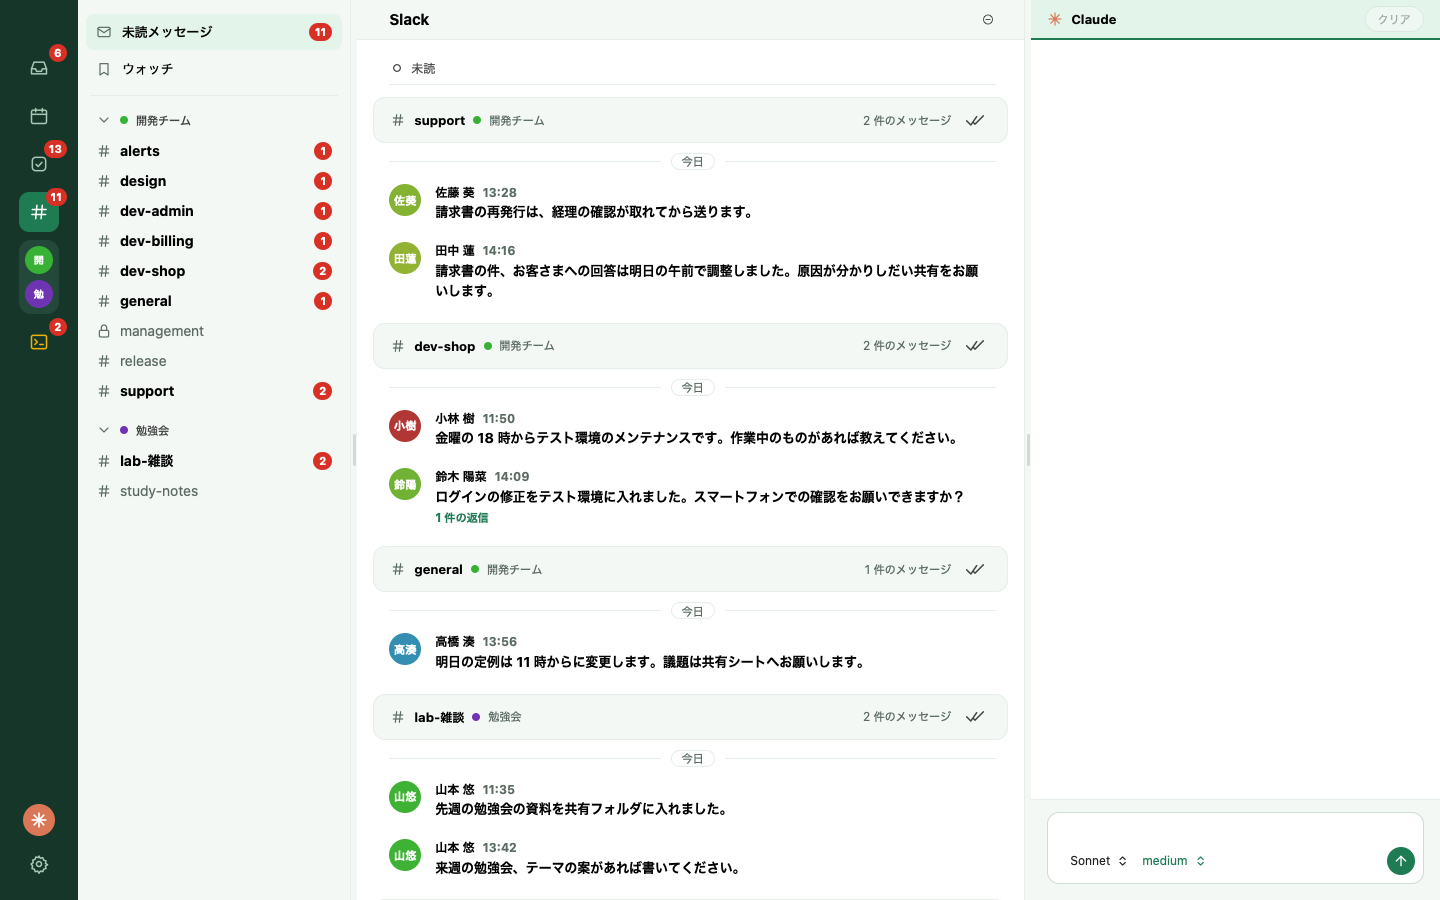
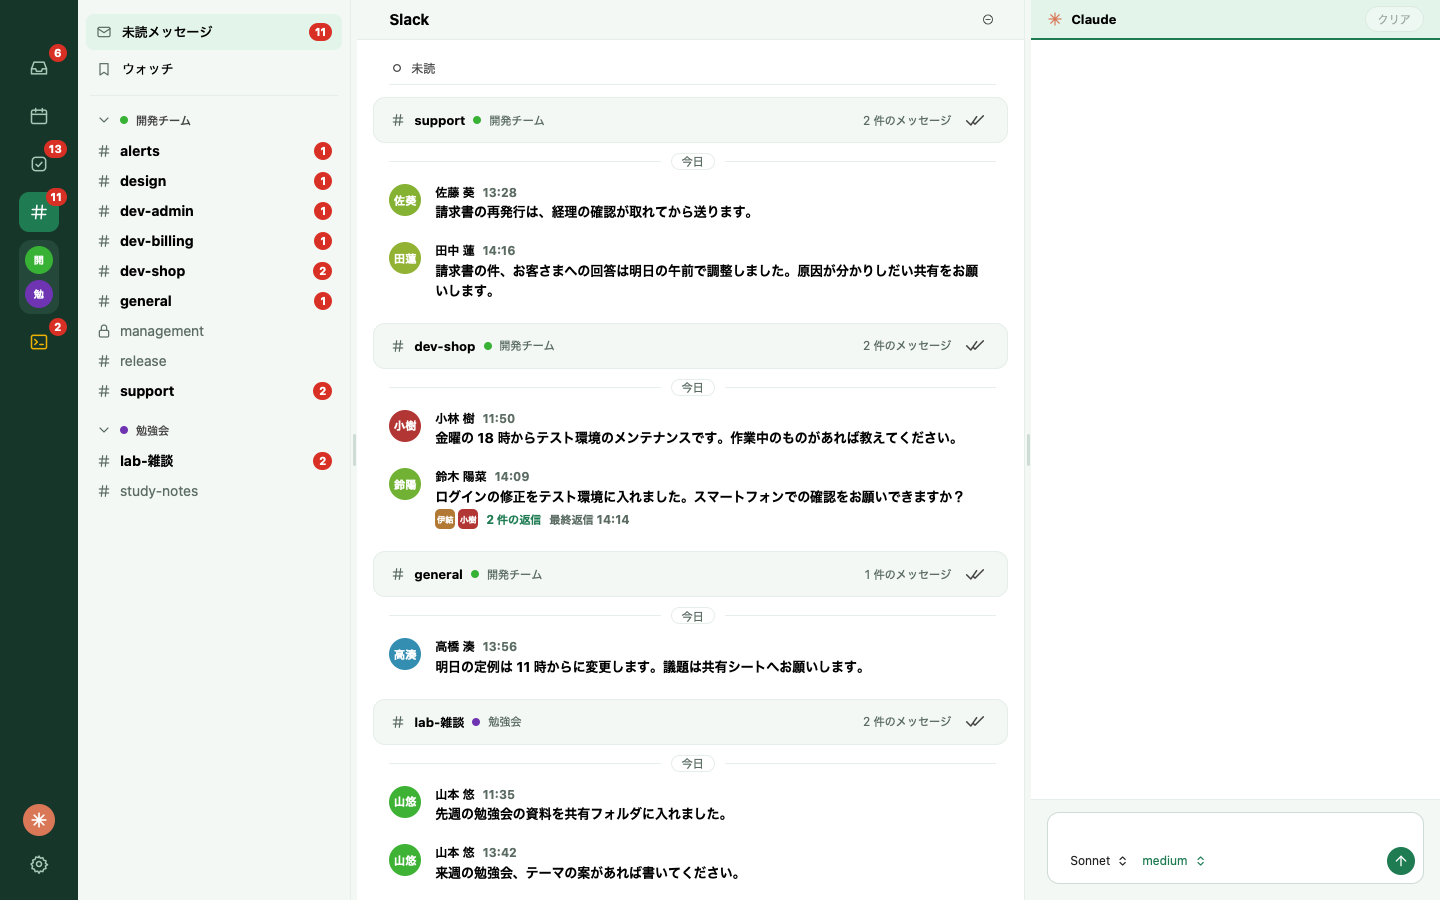
docs: v0.67.1 の CHANGELOG と機能の説明を書き、Slack の写真を撮り直す

diff --git a/.claude/skills/readme-product/shots/readme-shots.e2e.ts b/.claude/skills/readme-product/shots/readme-shots.e2e.ts
@@ -387,7 +387,7 @@ function feed() {
   const unread: TimelineMessage[] = [
     timelineMessage(tsAgo(4, 2), "田中 蓮", "support", "請求書の件、お客さまへの回答は明日の午前で調整しました。原因が分かりしだい共有をお願いします。", { ...inWs(wsA, "C1"), unread: true }),
     timelineMessage(tsAgo(52, 19), "佐藤 葵", "support", "請求書の再発行は、経理の確認が取れてから送ります。", { ...inWs(wsA, "C1"), unread: true }),
-    timelineMessage(tsAgo(11, 3), "鈴木 陽菜", "dev-shop", "ログインの修正をテスト環境に入れました。スマートフォンでの確認をお願いできますか？", { ...inWs(wsA, "C2"), unread: true, replyCount: 1 }),
+    timelineMessage(tsAgo(11, 3), "鈴木 陽菜", "dev-shop", "ログインの修正をテスト環境に入れました。スマートフォンでの確認をお願いできますか？", { ...inWs(wsA, "C2"), unread: true, replyCount: 2, repliers: [{ name: "伊藤 結衣", iconUrl: null }, { name: "小林 樹", iconUrl: null }], latestReply: tsAgo(6, 21) }),
     timelineMessage(tsAgo(24, 4), "高橋 湊", "general", "明日の定例は 11 時からに変更します。議題は共有シートへお願いします。", { ...inWs(wsA, "C3"), unread: true }),
     timelineMessage(tsAgo(38, 5), "山本 悠", "lab-雑談", "来週の勉強会、テーマの案があれば書いてください。", { ...inWs(wsB, "D1"), unread: true }),
     timelineMessage(rootTs, "渡辺 大和", "dev-billing", "夜間バッチの集計が、昨日から 20 分ほど遅くなっています。心当たりのある方はいますか？", {

diff --git a/docs/features.md b/docs/features.md
@@ -23,7 +23,7 @@ title: 機能
 - Todo 画面の右側は、トークンの入力欄と下書きのページのあいだを除いて、いつも開いていて、2 段になっている。1 段目は、左の見出しと同じ淡い色の帯で、右端に Claude と「Orca に渡す」の 2 つのアイコンだけがあり、押して切り替える（Orca に渡すのアイコンは、タスクを開いているあいだだけ押せる。タスクを離れると Claude に戻る）。2 段目は選んだ機能の見出しと操作で、その下が中身になる。2 つのペインは同時には出ず、右側の幅は仕切りで画面の 30% から 45% まで変えられる（最初はいちばん狭い画面の 30%）。左の見出しには、Todo そのものの操作（一覧のボタン、戻るボタン、見出し、「その他」）だけが残る。Claude のペインでは、「年末まで週 2 件ずつ」のように言葉で頼むと、Claude がタスクの案を、名前、日付、プロジェクトのカードで返す。カードの上で名前、日付、プロジェクトを直し、「追加」を押して初めて Todoist にタスクを作る。「却下」は何も作らずにカードを閉じる。続けて頼むと、今のカードの内容も Claude に渡る。頼みを書く欄の枠の中で、この相談のモデルと effort を切り替えられる（依頼、会話、今日の日付、Todoist のプロジェクトの名前を送る。Claude Code を使えるときだけ）
 - メールを Slack に貼る（詳細画面の「Slack に貼る」で専用の画面が開き、左に投稿のプレビュー、右に Claude との会話が並ぶ。プレビューには、スレッドの最新のメッセージの件名・差出人・日時・本文が入り、押すと編集欄になって直せる。左下の「投稿」で、選んだチャンネルかスレッドに投稿する。「元の内容に戻す」で最初の文に戻せる。宛先は、左上の「貼り付け先」で、最近使った先、参加しているチャンネルの検索、Slack のリンクから選ぶ（Claude に選ばせることもできる）。複数のワークスペースを持て、トークンはサイドメニューの設定で追加する）
 - サイドメニューは、開いている画面に合わせて、その機能のアカウントを、アイコンの下に並べる（メールとカレンダーでは Google のアカウントをカレンダーのアイコンの下に、Slack ではワークスペースを Slack のアイコンの下に出す。Todo と設定では出さない。ワークスペースの絵は、そのワークスペースでの自分のアイコン）
-- サイドメニューの Slack のアイコンで Slack の画面を開く。画面の左のサイドメニューに、「未読メッセージ」（未読の件数つき）と「ウォッチ」の 2 つのボタンと、ワークスペースごとのチャンネル（参加しているパブリックとプライベート。名前順で、未読の件数つき。DM とグループ DM は出さない）が並び、ワークスペースの名前を押すと、未読の無いチャンネルを隠して畳める（畳んだ状態はアプリを開き直しても残る）。境目をドラッグして幅を変えられる。ボタンで、全ワークスペース分のメッセージの「未読」と「ウォッチ」の一覧を 1 つずつ切り替える（送信者のアイコンと名前、本文（ふつうの投稿は 2 行まで、ボットの投稿は項目ごとに書式つきで）、返信の件数を出す。新着は自動で読み直す。設定の「Slack」タブの「リアルタイム更新」でワークスペースごとに App-Level Token を登録すると、Socket Mode でつなぎ、投稿・返信・変更・削除を約 1 秒で一覧と未読の件数に出す）。「未読」は、チャンネルごとにまとめ、チャンネルごとに新しい 10 件までを、古い順に日付の区切りの下に、名前の横に時刻をつけて出す（全体の上限はない）。「ウォッチ」は新しい順で、行に日時を出す。未読のメッセージは、既読になると一覧から消える。一覧の上のヘッダーには「Slack」の見出しと、「一覧に出さないチャンネル」を開く設定のアイコンだけが付く。未読の件数は Slack のアイコンにも出す（20 件を超えると `20+`。0 件のときは消える）。サイドメニューのチャンネルにマウスを乗せると出る丸にマイナスのアイコンで、そのチャンネルを一覧に出さないようにでき、設定の「Slack」タブで戻せる。しおりで、そのスレッドをウォッチでき、ウォッチしたスレッドは外すまで「ウォッチ」に残り、新しい返信があると「新しい返信 N 件」を出す
+- サイドメニューの Slack のアイコンで Slack の画面を開く。画面の左のサイドメニューに、「未読メッセージ」（未読の件数つき）と「ウォッチ」の 2 つのボタンと、ワークスペースごとのチャンネル（参加しているパブリックとプライベート。名前順で、未読の件数つき。DM とグループ DM は出さない）が並び、ワークスペースの名前を押すと、未読の無いチャンネルを隠して畳める（畳んだ状態はアプリを開き直しても残る）。境目をドラッグして幅を変えられる。ボタンで、全ワークスペース分のメッセージの「未読」と「ウォッチ」の一覧を 1 つずつ切り替える（送信者のアイコンと名前、本文（省略せずに全部。ボットの投稿は項目ごとに書式つきで）、返信の件数と、返信した人のアイコン（5 人まで）と最終返信の時刻を出す。新着は自動で読み直す。設定の「Slack」タブの「リアルタイム更新」でワークスペースごとに App-Level Token を登録すると、Socket Mode でつなぎ、投稿・返信・変更・削除を約 1 秒で一覧と未読の件数に出す）。「未読」は、チャンネルごとにまとめ、チャンネルごとに新しい 10 件までを、古い順に日付の区切りの下に、名前の横に時刻をつけて出す（全体の上限はない）。「ウォッチ」は新しい順で、行に日時を出す。未読のメッセージは、既読になると一覧から消える。一覧の上のヘッダーには「Slack」の見出しと、「一覧に出さないチャンネル」を開く設定のアイコンだけが付く。未読の件数は Slack のアイコンにも出す（20 件を超えると `20+`。0 件のときは消える）。サイドメニューのチャンネルにマウスを乗せると出る丸にマイナスのアイコンで、そのチャンネルを一覧に出さないようにでき、設定の「Slack」タブで戻せる。しおりで、そのスレッドをウォッチでき、ウォッチしたスレッドは外すまで「ウォッチ」に残り、新しい返信があると「新しい返信 N 件」を出す
 - 「未読」のチャンネルの見出しの右端のアイコン「既読にする」で、そのチャンネルの既読位置を最新の未読のメッセージまで進める（一覧に出ていない分も含む。戻せない）。そのチャンネルのスレッドの未読の返信も既読になる。スレッドは開かない。1 件ずつ既読にするチェックと、一覧全体の「すべて既読にする」はない
 - 未読の返信があるスレッドは未読の段に出し、行の下の「未読の返信 N 件」で返信を開閉する（最初は開いている。ここで読んでも Slack 側のスレッドの未読は消えない）
 - サイドメニューのチャンネルを押すと、そのチャンネルの履歴を開く（最新の 50 件を、古い順に日付の区切りの下に出し、最新のメッセージの位置で開く。ヘッダーはチャンネルの名前とワークスペースの名前だけ。行は未読の行と同じで、返信のあるメッセージは「N 件の返信」でスレッドを開き、しおりでウォッチできる。リアクションは、本文の下に絵文字と数で並ぶ（表示だけ。カスタム絵文字は `:名前:` で出す）。スレッドへの返信をチャンネルにも投稿したメッセージには、本文の上に薄い色で「スレッドに返信済み: 」と元のメッセージの書き出しを出し、押すとそのスレッドを開く。チャンネルを押すと、「未読」の見出しの「既読にする」と同じく、そのチャンネルを既読にする。読めないときはエラーと「再読み込み」を出す）

diff --git a/CHANGELOG.md b/CHANGELOG.md
@@ -3,6 +3,12 @@
 The newest version comes first.
 The project was named cookup until v0.14.6.
 
+## v0.67.1
+
+S-5: the rows of the Slack list show the whole body, with no limit of 2 or 12 lines; so do the unread replies under a row and the rows of a channel's history (#541). A thread's row shows the icons of up to 5 people who replied before 「N 件の返信」, and the time of the newest reply after it, as 「最終返信 15:02」 (#542). A thread for which Slack names no repliers shows 「N 件の返信」 alone.
+
+Inside: the saving of the settings files goes through one function, the internal functions take the settings folder, the colors of the screen come from the color variables, and the checks before a push run the self-test of the push gate when its tools change (#543, #544, #546 to #554). Nothing of the app's behavior changes.
+
 ## v0.67.0
 
 S-21, S-6: the field under a channel's history and the reply field of a thread are rich fields, as the editor of A-26 is (#456, #457). A toolbar at the top of the frame makes the selection bold, italic or struck through, a link, a numbered or bulleted list, a quote, code or a code block. The text button 「投稿する」 or 「返信する」 is gone: a round arrow at the right end of the frame, or Cmd+Enter, posts, and Enter is a line break. The text is posted as Markdown and turned into Slack's notation when it is sent; only a link to an http, https or mailto address stays a link, so a link cannot notify `@channel` or a person.
